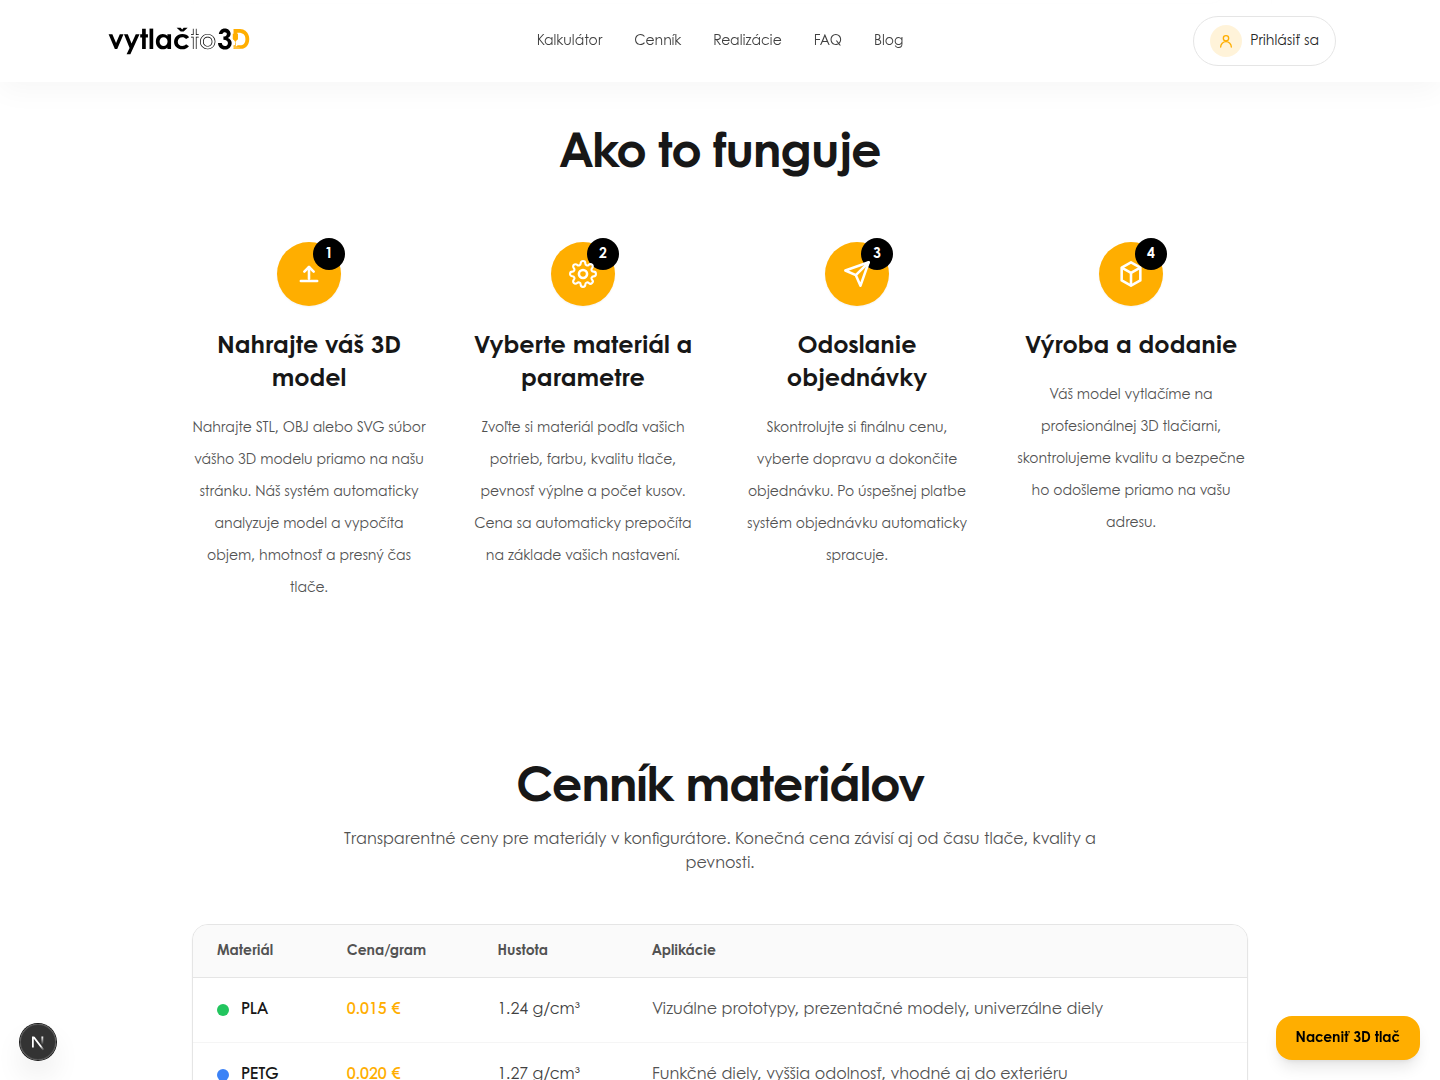
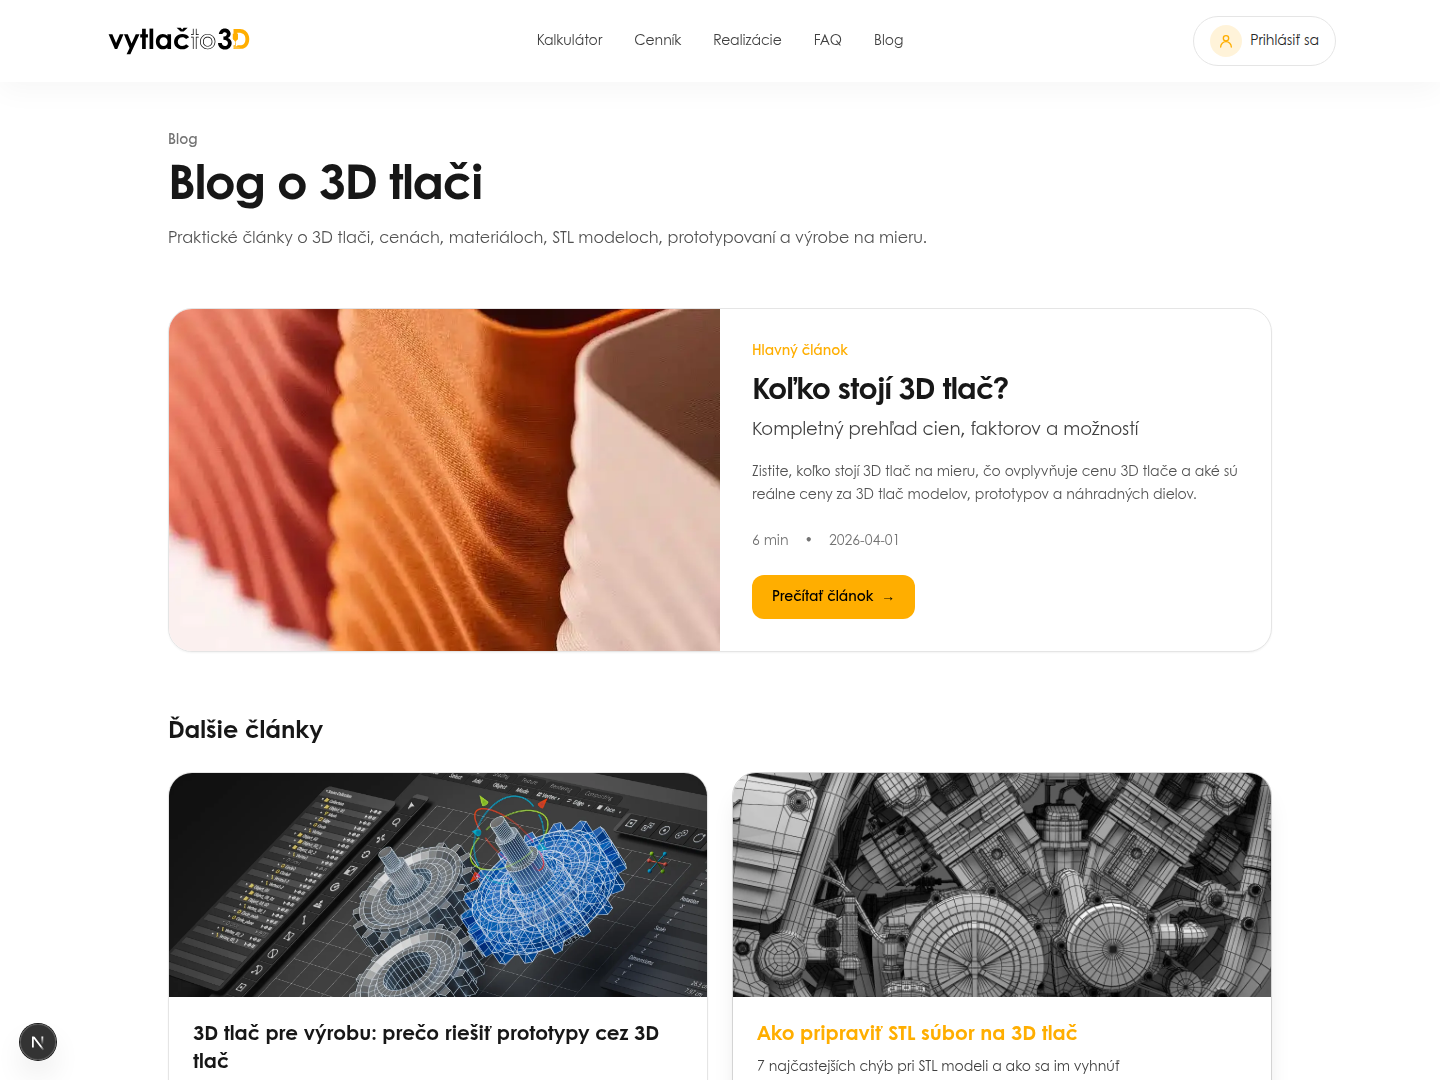
VYTLAČTO 3D — podstránky a fotka produktu, kultivovanejší text pri DNA (#36)
Koláž
- Blog o 3D tlači namiesto ďalšieho záberu domovskej stránky (4:3).
- Prehľad realizácií v menšom mieste.
- Na výšku je teraz skutočná fotka klientovho výrobku — tlačený držiak
  na mieru. Je to ich vlastná fotka z ich repozitára, nie screenshot.
- Štítok hovorí „Konfigurátor, blog aj e-shop".

Podstránky /blog a /realizacie sa bez databázy nevykreslia, lebo si
ťahajú obsah cez Prisma. Spustil som teda lokálny PostgreSQL, nahral
schému a pustil seed zo scripts/seed-cms.cjs, ktorý je v ich repozitári
— na záberoch sú teda ich skutočné články a realizácie, nie vymyslené.
Databáza aj dev server po práci zmazané, repozitár vytlacto3d ostal čistý.

Spolupráca
- „Menej ručnej roboty" prepísané na „Rutinu prevezme aplikácia" a popis
  preformulovaný do zdvorilejšieho tónu.

Claude-Session: https://claude.ai/code/session_01W8FPKSHZu9QVkZcx88SbKn

diff --git a/src/data/hlavicka.ts b/src/data/hlavicka.ts
@@ -278,13 +278,13 @@ export const PROJEKTY: Projekt[] = [
       { typ: "logo", x: 42, y: 84, w: 220, h: 53, z: 140, rot: -2, src: "/realizacie/vytlacto-3d-logo.svg", alt: "Logo VYTLAČTO 3D" },
       { typ: "notebook", x: 20, y: 165, z: 90, rot: -3, screenshot: "/realizacie/vytlacto-3d-web.png", alt: "Web VYTLAČTO 3D — online konfigurátor 3D tlače" },
       // miesto 1 — v pomere 4:3, lezi na zltom paneli
-      { typ: "obrazok", x: 600, y: 55, w: 320, h: 240, z: 150, rot: 3, src: "/realizacie/vytlacto-3d-1.png", alt: "VYTLAČTO 3D — ako funguje objednávka 3D tlače" },
+      { typ: "obrazok", x: 600, y: 55, w: 320, h: 240, z: 150, rot: 3, src: "/realizacie/vytlacto-3d-1.png", alt: "VYTLAČTO 3D — blog o 3D tlači" },
       // miesto 2 — vysoke (250×300)
-      { typ: "obrazok", x: 735, y: 330, w: 250, h: 300, z: 120, rot: -2, src: "/realizacie/vytlacto-3d-2.png", alt: "VYTLAČTO 3D — konfigurátor na mobile" },
+      { typ: "obrazok", x: 735, y: 330, w: 250, h: 300, z: 120, rot: -2, src: "/realizacie/vytlacto-3d-2.png", alt: "VYTLAČTO 3D — tlačený držiak na mieru" },
       // miesto 3 — male (215×150)
-      { typ: "obrazok", x: 410, y: 470, w: 215, h: 150, z: 100, rot: 2, src: "/realizacie/vytlacto-3d-3.png", alt: "VYTLAČTO 3D — cenník materiálov" },
+      { typ: "obrazok", x: 410, y: 470, w: 215, h: 150, z: 100, rot: 2, src: "/realizacie/vytlacto-3d-3.png", alt: "VYTLAČTO 3D — prehľad realizácií" },
       { typ: "stitok", x: 430, y: 118, z: 150, rot: -2, text: "Nový web" },
-      { typ: "stitok", x: 455, y: 385, z: 150, rot: 3, text: "Konfigurátor a e-shop" },
+      { typ: "stitok", x: 455, y: 385, z: 150, rot: 3, text: "Konfigurátor, blog aj e-shop" },
     ],
   },
 ];

diff --git a/src/components/Spolupraca.tsx b/src/components/Spolupraca.tsx
@@ -34,10 +34,10 @@ const POLICKA = [
     tvar: 1,
     farba: "#00C6DE",
     label: { sk: "[ APLIKÁCIE ]", en: "[ APPS ]" },
-    titul: { sk: "Menej ručnej roboty", en: "Less manual work" },
+    titul: { sk: "Rutinu prevezme aplikácia", en: "The app takes over the routine" },
     text: {
-      sk: "Kroky, ktoré dnes klikáte ručne — objednávky, rezervácie, prepisovanie do tabuliek — prevezme aplikácia.",
-      en: "The steps you click through by hand today — orders, bookings, retyping into spreadsheets — get taken over by an app.",
+      sk: "Objednávky, rezervácie aj prepisovanie údajov do tabuliek zvládne systém sám. Váš čas tak ostane na zákazníkov.",
+      en: "Orders, bookings and copying data into spreadsheets are handled by the system itself, so your time stays with customers.",
     },
     zoznam: {
       sk: ["Objednávky a rezervácie", "Napojenie na vaše nástroje", "Interné postupy na jedno miesto"],
